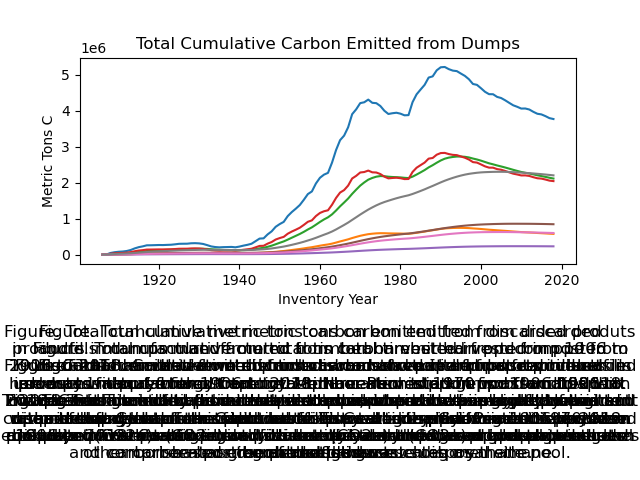
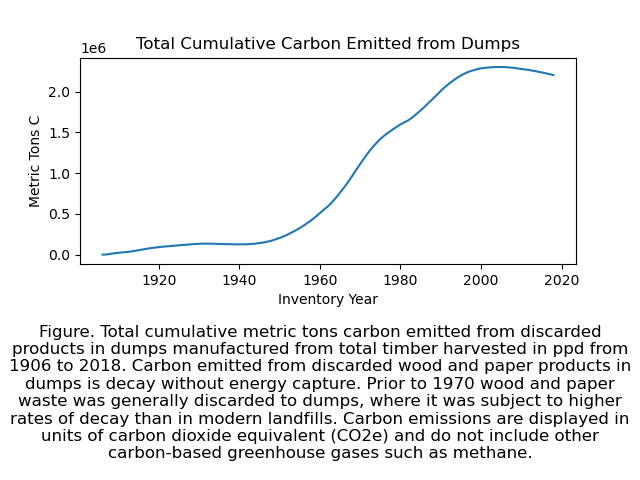
bugfix to prevent graph moshpit

diff --git a/hwpc/results.py b/hwpc/results.py
@@ -73,6 +73,7 @@ class Results(pickler.Pickler):
         plt.savefig('results/total_end_use_products',pad_inches=0.1)
         gch.upload_blob('hwpcarbon-data','results/total_end_use_products.csv','hpwc-user-inputs/user_request_20210915_125413/results/total_end_use_products.csv')
         gch.upload_blob('hwpcarbon-data','results/total_end_use_products.png','hpwc-user-inputs/user_request_20210915_125413/results/total_end_use_products.png')
+        plt.clf()
 
         # CUMULATIVE RECOVERED PRODUCTS CARBON
         recycled_carbon = recycled.groupby(by='Year')[nm.Fields.carbon].sum()
@@ -88,6 +89,7 @@ class Results(pickler.Pickler):
         plt.savefig('results/total_recycled_carbon')
         gch.upload_blob('hwpcarbon-data','results/total_recycled_carbon.csv','hpwc-user-inputs/user_request_20210915_125413/results/total_recycled_carbon.csv')
         gch.upload_blob('hwpcarbon-data','results/total_recycled_carbon.png','hpwc-user-inputs/user_request_20210915_125413/results/total_recycled_carbon.png')
+        plt.clf()
 
         # CUMULATIVE RECOVERED PRODUCTS CO2E
         recycled_emit = recycled.groupby(by='Year')[nm.Fields.co2].sum()
@@ -103,6 +105,7 @@ class Results(pickler.Pickler):
         plt.savefig('results/total_recycled_carbon_emitted')
         gch.upload_blob('hwpcarbon-data','results/total_recycled_carbon_emitted.csv','hpwc-user-inputs/user_request_20210915_125413/results/total_recycled_carbon_emitted.csv')
         gch.upload_blob('hwpcarbon-data','results/total_recycled_carbon_emitted.png','hpwc-user-inputs/user_request_20210915_125413/results/total_recycled_carbon_emitted.png')
+        plt.clf()
 
         # CUMULATIVE DISCARD COMPOST CO2E
         composted_emit = composted.groupby(by='Year')[nm.Fields.co2].sum()
@@ -118,6 +121,7 @@ class Results(pickler.Pickler):
         plt.savefig('results/total_composted_carbon_emitted')
         gch.upload_blob('hwpcarbon-data','results/total_composted_carbon_emitted.csv','hpwc-user-inputs/user_request_20210915_125413/results/total_composted_carbon_emitted.csv')
         gch.upload_blob('hwpcarbon-data','results/total_composted_carbon_emitted.png','hpwc-user-inputs/user_request_20210915_125413/results/total_composted_carbon_emitted.png')
+        plt.clf()
 
         # CUMULATIVE DISCARD LANDFILL CARBON
         landfills_carbon = landfills.groupby(by='Year')[nm.Fields.carbon].sum()
@@ -133,6 +137,7 @@ class Results(pickler.Pickler):
         plt.savefig('results/total_landfills_carbon')
         gch.upload_blob('hwpcarbon-data','results/total_landfills_carbon.csv','hpwc-user-inputs/user_request_20210915_125413/results/total_landfills_carbon.csv')
         gch.upload_blob('hwpcarbon-data','results/total_landfills_carbon.png','hpwc-user-inputs/user_request_20210915_125413/results/total_landfills_carbon.png')
+        plt.clf()
 
         # CUMULATIVE DISCARD LANDFILL CO2E
         landfills_emit = landfills.groupby(by='Year')[nm.Fields.co2].sum()
@@ -148,6 +153,7 @@ class Results(pickler.Pickler):
         plt.savefig('results/total_landfills_carbon_emitted')
         gch.upload_blob('hwpcarbon-data','results/total_landfills_carbon_emitted.csv','hpwc-user-inputs/user_request_20210915_125413/results/total_landfills_carbon_emitted.csv')
         gch.upload_blob('hwpcarbon-data','results/total_landfills_carbon_emitted.png','hpwc-user-inputs/user_request_20210915_125413/results/total_landfills_carbon_emitted.png')
+        plt.clf()
         
         # CUMULATIVE DISCARD DUMPS CARBON
         dumps_carbon = dumps.groupby(by='Year')[nm.Fields.carbon].sum()
@@ -163,6 +169,7 @@ class Results(pickler.Pickler):
         plt.savefig('results/total_dumps_carbon')
         gch.upload_blob('hwpcarbon-data','results/total_dumps_carbon.csv','hpwc-user-inputs/user_request_20210915_125413/results/total_dumps_carbon.csv')
         gch.upload_blob('hwpcarbon-data','results/total_dumps_carbon.png','hpwc-user-inputs/user_request_20210915_125413/results/total_dumps_carbon.png')
+        plt.clf()
 
         # CUMULATIVE DISCARD DUMPS CO2E
         dumps_emit = dumps.groupby(by='Year')[nm.Fields.co2].sum()
@@ -178,6 +185,7 @@ class Results(pickler.Pickler):
         plt.savefig('results/total_dumps_carbon_emitted')
         gch.upload_blob('hwpcarbon-data','results/total_dumps_carbon_emitted.csv','hpwc-user-inputs/user_request_20210915_125413/results/total_dumps_carbon_emitted.csv')
         gch.upload_blob('hwpcarbon-data','results/total_dumps_carbon_emitted.png','hpwc-user-inputs/user_request_20210915_125413/results/total_dumps_carbon_emitted.png')
+        plt.clf()
 
         self.total_dispositions.to_csv('results/total_dispositions.csv')
         return
